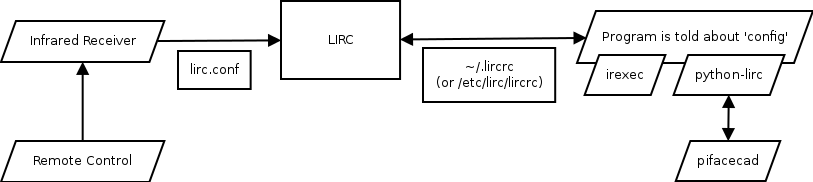
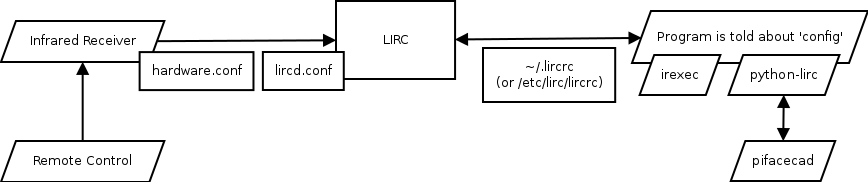
using toggle_mask for pifacecommon 4.0.0 and updated lirc to lircd in docs (fixes #53)

diff --git a/pifacecad/core.py b/pifacecad/core.py
@@ -20,7 +20,7 @@ class Switch(pifacecommon.core.DigitalInputItem):
                 "Specified switch index (%d) out of range." % switch_num)
         else:
             super(Switch, self).__init__(
-                switch_num, INPUT_PORT, board_num, toggle=1)
+                switch_num, INPUT_PORT, board_num, toggle_mask=1)
 
 
 class PiFaceCAD(object):
@@ -43,8 +43,8 @@ class PiFaceCAD(object):
     """
     def __init__(self, board_num=0):
         self.board_num = board_num
-        self.switch_port = \
-            pifacecommon.core.DigitalInputPort(INPUT_PORT, board_num, toggle=1)
+        self.switch_port = pifacecommon.core.DigitalInputPort(
+            INPUT_PORT, board_num, toggle_mask=0xff)
         self.switches = [Switch(i, board_num) for i in range(MAX_SWITCHES)]
         self.lcd = PiFaceLCD()
 

diff --git a/tests/test_switches.py b/tests/test_switches.py
@@ -6,28 +6,14 @@ sys.path.insert(0, parentdir)
 import pifacecad
 
 
-def input0(event):
-    print("input 0 was pressed")
-
-
-def input1(event):
-    print("input 1 was pressed")
-
-
-def input2(event):
-    print("input 2 was pressed")
-
-
-def input3(event):
-    print("input 3 was pressed")
-
+def input_callback(event):
+    print("input {} was pressed".format(event.pin_num))
+    print(pifacecad.PiFaceCAD().switch_port.value)
 
 pifacecad.init()
 
 sl = pifacecad.SwitchEventListener()
-sl.register(0, pifacecad.IODIR_ON, input0)
-sl.register(1, pifacecad.IODIR_ON, input1)
-sl.register(2, pifacecad.IODIR_ON, input2)
-sl.register(3, pifacecad.IODIR_ON, input3)
+for i in range(8):
+    sl.register(i, pifacecad.IODIR_ON, input_callback)
 
 sl.activate()

diff --git a/docs/lirc.rst b/docs/lirc.rst
@@ -78,10 +78,10 @@ Configuring LIRC
 
 See also: http://www.lirc.org/html/configure.html
 
-lirc.conf
+lircd.conf
 ---------
 
-The ``/etc/lirc/lirc.conf`` file tells LIRC about your remote control. Since every
+The ``/etc/lirc/lircd.conf`` file tells LIRC about your remote control. Since every
 remote control is different, you need to generate a different config for each
 remote. Alternatively you could try and find your remote control config file
 here: http://lirc.sourceforge.net/remotes/.
